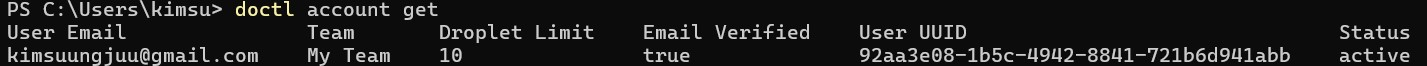
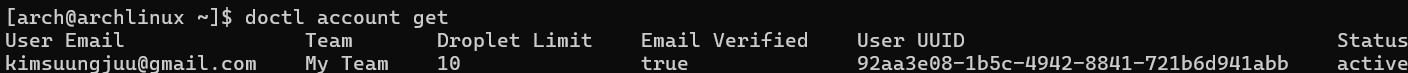
Redid install and configuring doctl

diff --git a/README.md b/README.md
@@ -51,36 +51,12 @@ ssh-keygen -t ed25519 -f C:\Users\your-username\.ssh\key-name -C "your-email-add
 
 ### Installing `doctl` on Arch Linux
 
-**Step 1:** Open your **Terminal** 
-
-**Step 2:** Run the code below in your Terminal
+In your **Terminal** Run the code below 
+```
+sudo pacman -S doctl
 ```
 
-```
-
-**Step 3:** Extract the binary by running the code below
-```
-Expand-Archive -Path ~\doctl-1.110.0-windows-amd64.zip
-```
-
-**Step 4:** In a terminal opened with **Run as Administrator** create a new directory with the code below
-```
-New-Item -ItemType Directory $env:ProgramFiles\doctl\
-```
-> This code creates a new directory where we can move the `doctl` binary into
-
-**Step 5:** Move the `doctl` binary into the new directory with the code below
-```
-Move-Item -Path ~\doctl-1.110.0-windows-amd64\doctl.exe -Destination $env:ProgramFiles\doctl\
-[Environment]::SetEnvironmentVariable(
-    "Path",
-    [Environment]::GetEnvironmentVariable("Path",
-    [EnvironmentVariableTarget]::Machine) + ";$env:ProgramFiles\doctl\",
-    [EnvironmentVariableTarget]::Machine)
-$env:Path = [System.Environment]::GetEnvironmentVariable("Path","Machine")
-```
-
-**Congratulations, you have installed `doctl` on your local device!**
+**You have successfully installed `doctl` on Arch Linux!**
 
 ### Creating an API token
 To use the API, we need to create a personal access token and we will be using the token to authenticate and connect to the API. We will be creating the API and token in the DigitalOcean website
@@ -102,11 +78,9 @@ To use the API, we need to create a personal access token and we will be using t
 
 ### Using the API token to grant account access to `doctl`
 
-**Step 1:** Open your **Terminal**
-
-**Step 2:** Type the the code below into your terminal
+**Step 1:** In your **Terminal** type the the code below
 ```
-doctl auth init --context <NAME>
+doctl auth init --context <NAME> 
 ```
 > **Note:** Change the *NAME* to a name of your choice
 
@@ -132,6 +106,7 @@ doctl account get
 **Congratulations, your `doctl` is working!**
 
 ## Configuring `cloud-init`
+`cloud-init`
 
 ## Creating a Droplet using `doctl`
 
